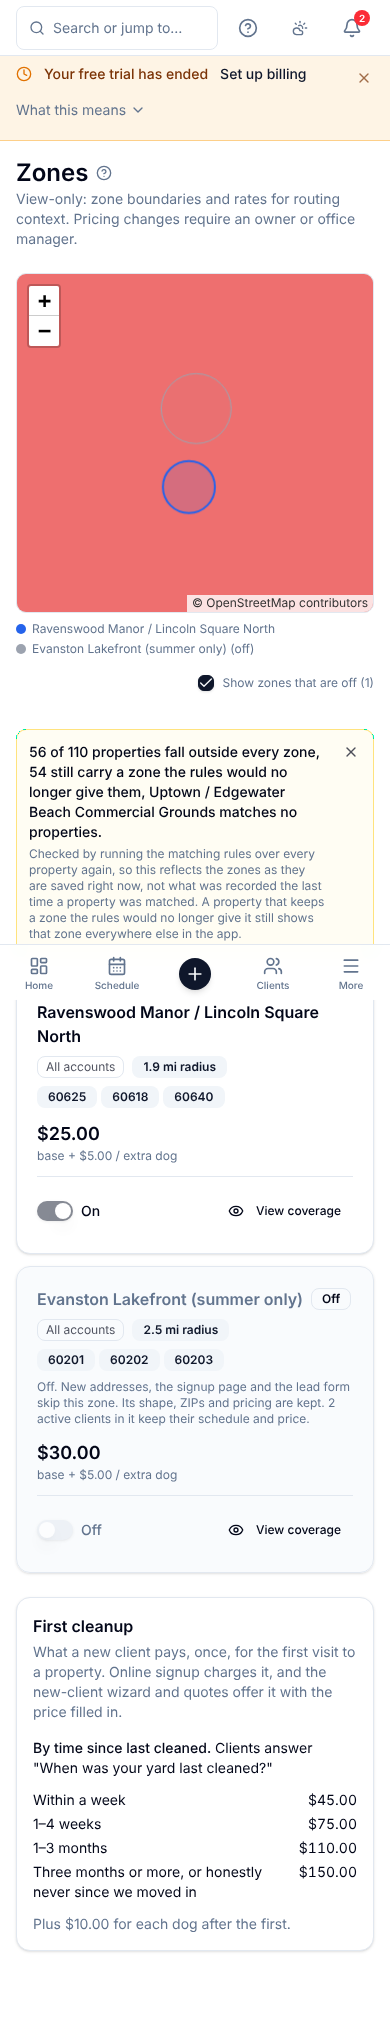
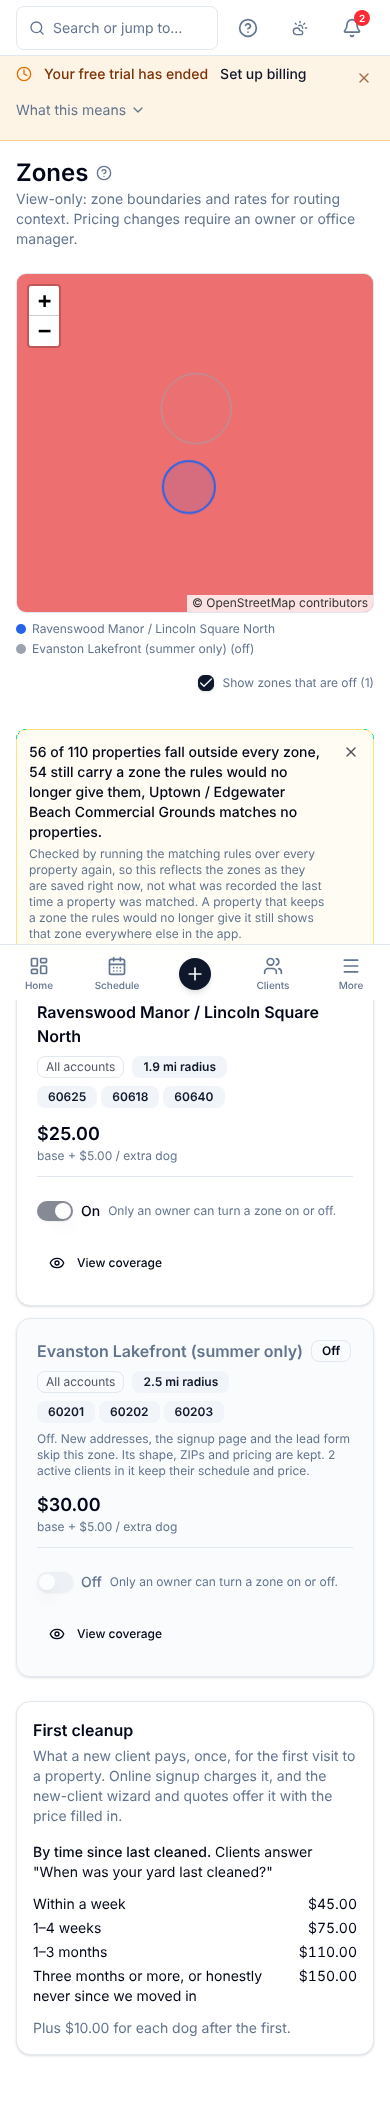
Zones: keep a client in an off zone through a property edit (#449)
Product review on 81697129:
- updateProperty re-ran detection on every edit and moved a property out of
  a zone that is off. It now reads the current zone and writes no zone
  columns while that zone is off, the same rule as redetect.
- The active client count paged neither read, so a big org could get a short
  count or a 0 that skipped the confirm. Both reads use fetchAllPages.
- Non-owners see "Only an owner can turn a zone on or off." as text beside
  the switch, not only as a tooltip.

diff --git a/tests/a-zone-can-be-turned-off.test.tsx b/tests/a-zone-can-be-turned-off.test.tsx
@@ -24,6 +24,7 @@ import {
   offZoneNotice,
   toggledToast,
   turnOffConfirm,
+  zonePatchAfterEdit,
   zoneStatusLabel,
 } from "@/lib/zone-enabled";
 
@@ -392,5 +393,77 @@ describe("confirmation and copy", () => {
       "supabase/migrations/20261029180000_a-zone-can-be-turned-off.sql",
     ])
       expect(read(f), f).not.toContain("—");
+  });
+});
+
+// Product review on 81697129: three gaps, each pinned here.
+describe("editing a property keeps a client in an off zone", () => {
+  it("writes no zone columns while the property sits in an off zone", () => {
+    expect(zonePatchAfterEdit({ autoZoneId: null, hasOverride: false, inOffZone: true })).toEqual(
+      {},
+    );
+    expect(
+      zonePatchAfterEdit({ autoZoneId: "z-other", hasOverride: false, inOffZone: true }),
+    ).toEqual({});
+    expect(zonePatchAfterEdit({ autoZoneId: null, hasOverride: true, inOffZone: true })).toEqual(
+      {},
+    );
+  });
+
+  it("otherwise follows detection as before", () => {
+    expect(zonePatchAfterEdit({ autoZoneId: "z1", hasOverride: false, inOffZone: false })).toEqual({
+      auto_zone_id: "z1",
+      zone_id: "z1",
+    });
+    expect(zonePatchAfterEdit({ autoZoneId: "z1", hasOverride: true, inOffZone: false })).toEqual({
+      auto_zone_id: "z1",
+    });
+  });
+
+  it("updateProperty reads the current zone and goes through that rule", () => {
+    const src = read("src/lib/properties.functions.ts");
+    const fn = src.slice(src.indexOf("export const updateProperty"));
+    expect(fn).toMatch(/auto_zone_id, zone_id, has_units/);
+    expect(fn).toMatch(/\.from\("zones"\)\s*\.select\("enabled"\)/);
+    expect(fn).toMatch(/zonePatchAfterEdit\(/);
+    expect(fn).not.toMatch(/\{ auto_zone_id: autoZoneId, zone_id: autoZoneId \}/);
+    // No "detected zone changed" entry for a property that did not change.
+    expect(fn).toMatch(/"auto_zone_id" in zonePatch && autoZoneId !== current\.auto_zone_id/);
+  });
+});
+
+describe("the active client count reads every row", () => {
+  it("pages both reads past the 1000-row cap, in a stable order", () => {
+    const src = read("src/lib/zones.functions.ts");
+    const fn = src.slice(src.indexOf("async function activeClientCounts"));
+    const body = fn.slice(0, fn.indexOf("\n}\n"));
+    expect(body.match(/fetchAllPages</g)?.length).toBe(2);
+    expect(body.match(/\.order\("id"\)\s*\.range\(from, to\)/g)?.length).toBe(2);
+  });
+});
+
+describe("a dispatcher is told why the switch is off, on screen", () => {
+  const render = async (zone: any) => {
+    const { ZoneEnabledSwitch } = await import("@/components/ZoneEnabledSwitch");
+    const qc = new QueryClient();
+    return renderToStaticMarkup(
+      createElement(
+        QueryClientProvider,
+        { client: qc },
+        createElement(ZoneEnabledSwitch, { zone }),
+      ),
+    );
+  };
+  const visibleReason = /<span[^>]*>Only an owner can turn a zone on or off\.<\/span>/;
+
+  it("shows the reason as text, not only a tooltip", async () => {
+    role = "dispatcher";
+    expect(await render({ id: "z1", name: "North", enabled: true })).toMatch(visibleReason);
+    role = "owner";
+  });
+
+  it("an owner does not see it", async () => {
+    role = "owner";
+    expect(await render({ id: "z1", name: "North", enabled: true })).not.toMatch(visibleReason);
   });
 });

diff --git a/src/lib/properties.functions.ts b/src/lib/properties.functions.ts
@@ -235,7 +235,7 @@ export const updateProperty = createServerFn({ method: "POST" })
     const { data: current, error: curErr } = await supabase
       .from("properties")
       .select(
-        "organization_id, client_id, zone_override_reason, street, city, postal_code, auto_zone_id, has_units, total_units, boundary_area_sqm, do_not_enter_if_dog_out, hazard_notes, clients(account_type)",
+        "organization_id, client_id, zone_override_reason, street, city, postal_code, auto_zone_id, zone_id, has_units, total_units, boundary_area_sqm, do_not_enter_if_dog_out, hazard_notes, clients(account_type)",
       )
       .eq("id", data.propertyId)
       .single();
@@ -285,9 +285,23 @@ export const updateProperty = createServerFn({ method: "POST" })
           : null,
       accountType: data.accountType ?? ((current as any).clients?.account_type as any) ?? null,
     });
-    const zonePatch = current.zone_override_reason
-      ? { auto_zone_id: autoZoneId }
-      : { auto_zone_id: autoZoneId, zone_id: autoZoneId };
+    // A property in a zone that is turned off stays in it (#449), whatever is
+    // edited: the same rule redetectZonesForOrg follows.
+    let inOffZone = false;
+    if ((current as any).zone_id) {
+      const { data: currentZone } = await (supabase as any)
+        .from("zones")
+        .select("enabled")
+        .eq("id", (current as any).zone_id)
+        .maybeSingle();
+      inOffZone = currentZone?.enabled === false;
+    }
+    const { zonePatchAfterEdit } = await import("@/lib/zone-enabled");
+    const zonePatch = zonePatchAfterEdit({
+      autoZoneId,
+      hasOverride: !!current.zone_override_reason,
+      inOffZone,
+    });
 
     const { error } = await supabase
       .from("properties")
@@ -454,7 +468,7 @@ export const updateProperty = createServerFn({ method: "POST" })
           }
         : {},
     });
-    if (autoZoneId !== current.auto_zone_id) {
+    if ("auto_zone_id" in zonePatch && autoZoneId !== current.auto_zone_id) {
       await logActivity(supabase, {
         orgId: current.organization_id,
         clientId: current.client_id,

diff --git a/src/lib/zones.functions.ts b/src/lib/zones.functions.ts
@@ -178,25 +178,37 @@ async function activeClientCounts(
   supabase: any,
   orgId: string,
 ): Promise<Record<string, number> | null> {
-  const [props, subs] = await Promise.all([
-    supabase
-      .from("properties")
-      .select("id, client_id, zone_id")
-      .eq("organization_id", orgId)
-      .not("zone_id", "is", null)
-      .is("archived_at", null),
-    supabase
-      .from("subscriptions")
-      .select("client_id, property_id")
-      .eq("organization_id", orgId)
-      .eq("status", "active"),
-  ]);
-  if (props.error || subs.error) {
-    console.error("[zones] active client count failed", props.error ?? subs.error);
+  // Paged (BUG-23): a single read stops at 1000 rows, and a short count here
+  // could be a 0 that skips the confirm.
+  const { fetchAllPages } = await import("@/lib/supabase-paging.server");
+  const { activeClientsByZone } = await import("@/lib/zone-enabled");
+  try {
+    const [props, subs] = await Promise.all([
+      fetchAllPages<{ id: string; client_id: string | null; zone_id: string | null }>((from, to) =>
+        supabase
+          .from("properties")
+          .select("id, client_id, zone_id")
+          .eq("organization_id", orgId)
+          .not("zone_id", "is", null)
+          .is("archived_at", null)
+          .order("id")
+          .range(from, to),
+      ),
+      fetchAllPages<{ client_id: string | null; property_id: string | null }>((from, to) =>
+        supabase
+          .from("subscriptions")
+          .select("id, client_id, property_id")
+          .eq("organization_id", orgId)
+          .eq("status", "active")
+          .order("id")
+          .range(from, to),
+      ),
+    ]);
+    return activeClientsByZone(props, subs);
+  } catch (e) {
+    console.error("[zones] active client count failed", e);
     return null;
   }
-  const { activeClientsByZone } = await import("@/lib/zone-enabled");
-  return activeClientsByZone(props.data ?? [], subs.data ?? []);
 }
 
 // Turn a zone on or off without touching its shape, ZIPs or pricing (#449).

diff --git a/src/lib/zone-enabled.ts b/src/lib/zone-enabled.ts
@@ -52,6 +52,24 @@ export function activeClientsByZone(
   return out;
 }
 
+/**
+ * The zone columns to write after a property's address is edited.
+ * `autoZoneId` is what the matcher says now, which never names an off zone.
+ *   - In an off zone: nothing changes, so the client keeps the zone, its
+ *     schedule and its price. The same rule as redetectZonesForOrg.
+ *   - A manual override: only the detected zone is refreshed.
+ *   - Otherwise the effective zone follows the detected one.
+ */
+export function zonePatchAfterEdit(input: {
+  autoZoneId: string | null;
+  hasOverride: boolean;
+  inOffZone: boolean;
+}): { auto_zone_id?: string | null; zone_id?: string | null } {
+  if (input.inOffZone) return {};
+  if (input.hasOverride) return { auto_zone_id: input.autoZoneId };
+  return { auto_zone_id: input.autoZoneId, zone_id: input.autoZoneId };
+}
+
 const clientsWord = (n: number) => `${n} active ${n === 1 ? "client" : "clients"}`;
 
 /** Status label for the switch. */

diff --git a/src/components/ZoneEnabledSwitch.tsx b/src/components/ZoneEnabledSwitch.tsx
@@ -59,7 +59,7 @@ export function ZoneEnabledSwitch({
   };
 
   return (
-    <div className={cn("flex min-h-11 items-center gap-2", className)}>
+    <div className={cn("flex min-h-11 flex-wrap items-center gap-x-2", className)}>
       <Switch
         id={switchId}
         checked={enabled}
@@ -74,6 +74,13 @@ export function ZoneEnabledSwitch({
       >
         {zoneStatusLabel(enabled)}
       </label>
+      {/* Visible, not only a tooltip: a title never shows on touch. Waits for
+          the role so an owner never sees it flash while it loads. */}
+      {role && !canToggle && (
+        <span className="text-xs text-muted-foreground">
+          Only an owner can turn a zone on or off.
+        </span>
+      )}
       {dialog}
     </div>
   );
